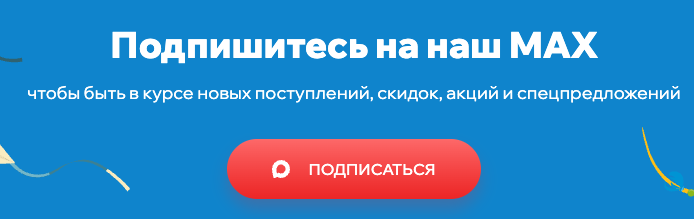
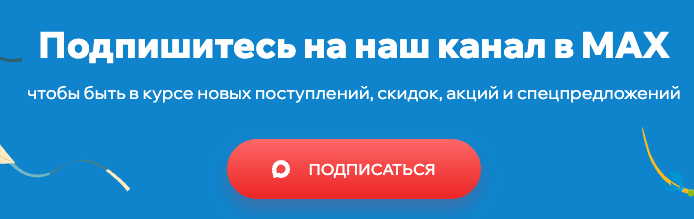
ЮгТойз: заголовок подписки — «Подпишитесь на наш канал в MAX»

Changed region(s): [[0.0605, 0.137, 0.9683, 0.3014]]

diff --git a/Yugtoys/orig/2026-11-25-max2/include/forms/subscribe.php b/Yugtoys/orig/2026-11-25-max2/include/forms/subscribe.php
@@ -1,0 +1,15 @@
+<section class="subscribe">
+	<div class="container">
+		<div class="subscribe-block">
+			<div class="image-subscribe-left">
+				<img alt="" src="/local/templates/ugtoiz/img/img_subscribe1.svg">
+			</div>
+			<div class="image-subscribe-right">
+				<img alt="" src="/local/templates/ugtoiz/img/img_subscribe2.svg">
+			</div>
+			<div class="title-section">Подпишитесь на наш MAX</div>
+			<div class="descr-section">чтобы быть в курсе новых поступлений, скидок, акций и спецпредложений</div>
+			<a target="_blank" rel="noopener" href="https://max.ru/join/szaeMVMnWKtkarJcqHwPXEQrt7gD-HmMvJU4C3ujAzI" class="btn-main btn-main_page"><i><img src="/local/templates/ugtoiz/img/max.svg" alt="" width="18" height="18"></i> ПОДПИСАТЬСЯ</a>
+		</div>
+	</div>
+</section>

diff --git a/Yugtoys/bitrix/include/forms/subscribe.php b/Yugtoys/bitrix/include/forms/subscribe.php
@@ -7,7 +7,7 @@
 			<div class="image-subscribe-right">
 				<img alt="" src="/local/templates/ugtoiz/img/img_subscribe2.svg">
 			</div>
-			<div class="title-section">Подпишитесь на наш MAX</div>
+			<div class="title-section">Подпишитесь на наш канал в MAX</div>
 			<div class="descr-section">чтобы быть в курсе новых поступлений, скидок, акций и спецпредложений</div>
 			<a target="_blank" rel="noopener" href="https://max.ru/join/szaeMVMnWKtkarJcqHwPXEQrt7gD-HmMvJU4C3ujAzI" class="btn-main btn-main_page"><i><img src="/local/templates/ugtoiz/img/max.svg" alt="" width="18" height="18"></i> ПОДПИСАТЬСЯ</a>
 		</div>
